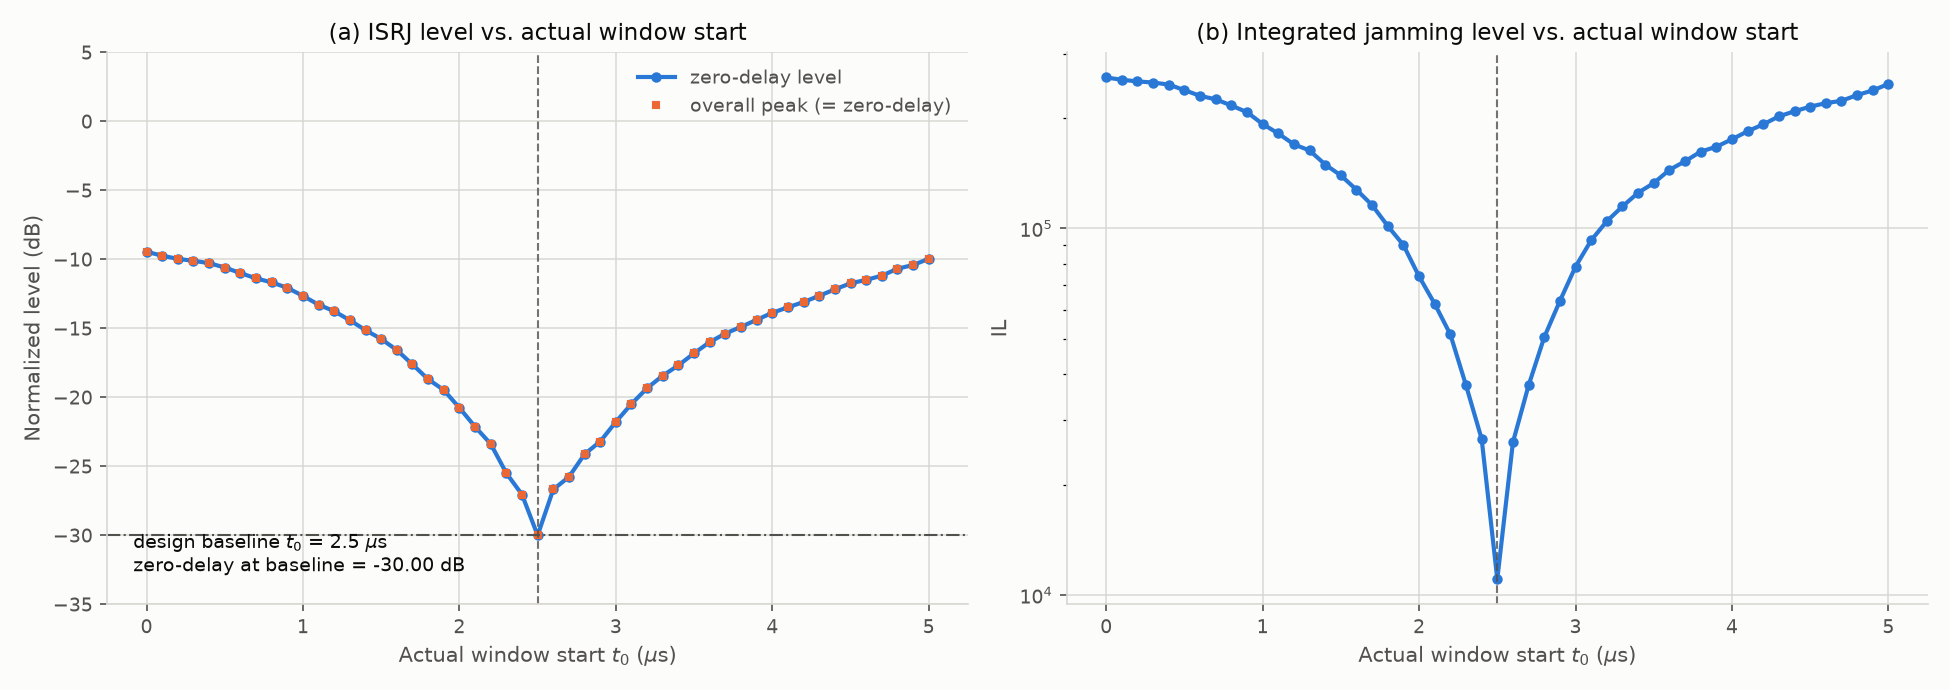
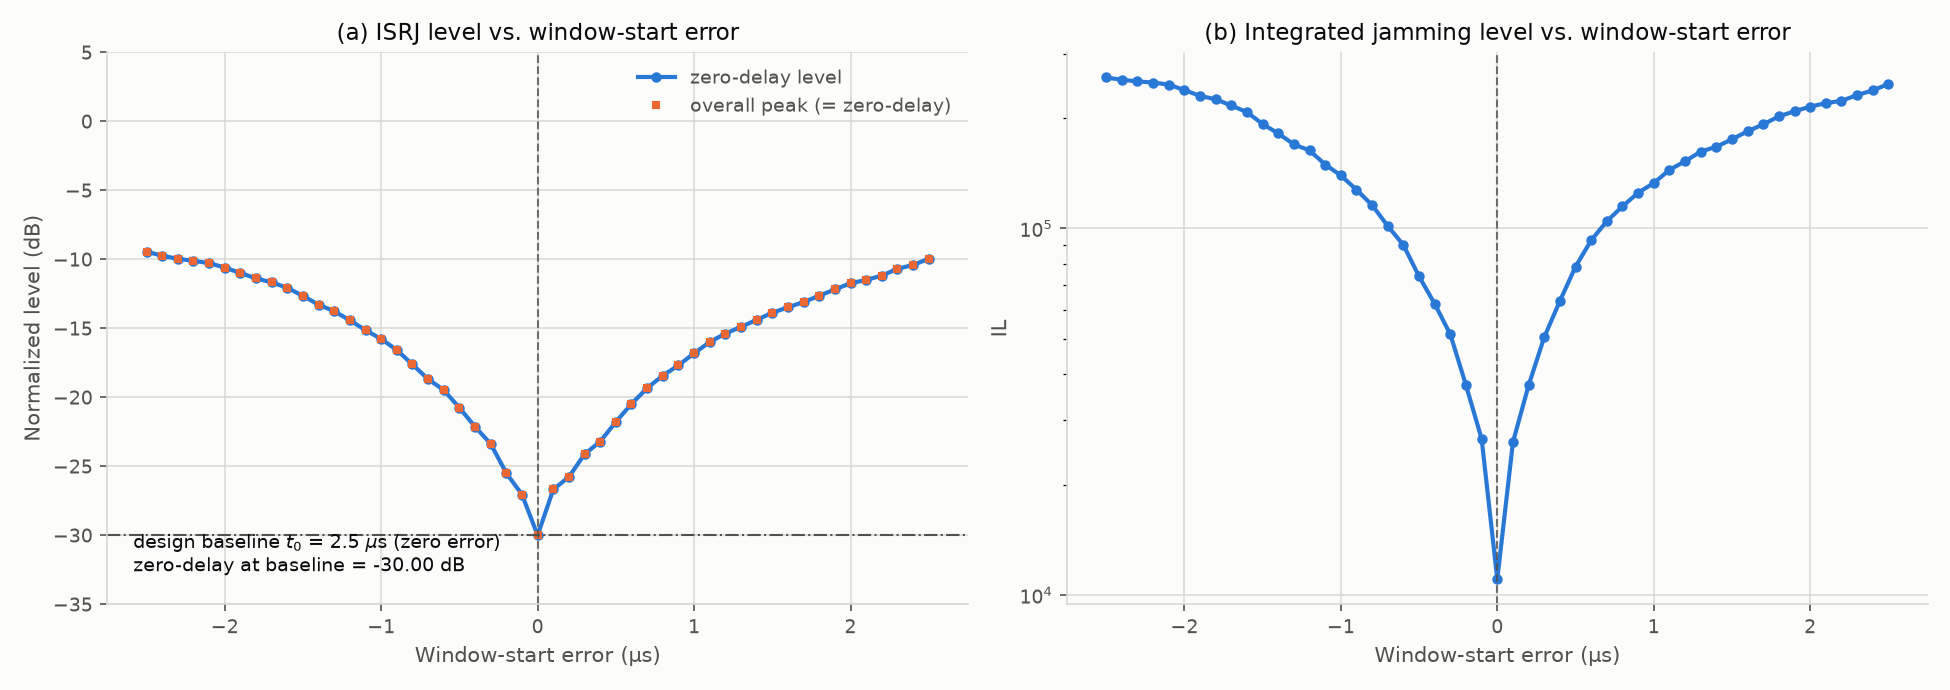
t_0 扫描图横坐标改为误差（±μs）：谷底居中于 0，与误差族图口径一致

diff --git a/参数搜索/scripts/run_t0_sweep.py b/参数搜索/scripts/run_t0_sweep.py
@@ -120,7 +120,7 @@ def _style(ax) -> None:
 
 
 def plot(rows: list, save_path: Path) -> None:
-    t0 = np.array([r["t0_us"] for r in rows])
+    err = np.array([r["t0_error_us"] for r in rows])      # 横坐标：t_0 误差 ±μs
     zero = np.array([r["zero_delay_db"] for r in rows])
     peak = np.array([r["peak_db"] for r in rows])
     il = np.array([r["il"] for r in rows])
@@ -128,33 +128,31 @@ def plot(rows: list, save_path: Path) -> None:
     fig, axes = plt.subplots(1, 2, figsize=(13, 4.6), facecolor=SURFACE)
 
     ax = axes[0]
-    ax.plot(t0, zero, color=SERIES_1, linewidth=2, marker="o", markersize=4,
+    ax.plot(err, zero, color=SERIES_1, linewidth=2, marker="o", markersize=4,
             label="zero-delay level")
     # 单份原位转发模型下整体峰值恒等于零延迟值（差异 ~1e-15），标记点单独画，
     # 避免两条曲线重叠导致下面那条不可见。
-    ax.plot(t0, peak, color=SERIES_2, linestyle="none", marker="s", markersize=3,
+    ax.plot(err, peak, color=SERIES_2, linestyle="none", marker="s", markersize=3,
             label="overall peak (= zero-delay)")
     ax.axhline(-30, color=TEXT_SECONDARY, linewidth=1.0, linestyle="-.")
-    ax.axvline(T0_DESIGN_US, color=TEXT_SECONDARY, linewidth=1.0,
-               linestyle="--", alpha=0.8)
+    ax.axvline(0.0, color=TEXT_SECONDARY, linewidth=1.0, linestyle="--", alpha=0.8)
     lo = max(-60, np.floor(np.min(zero) / 10) * 10 - 5)
     ax.set_ylim(lo, 5)
-    ax.annotate(f"design baseline $t_0$ = {T0_DESIGN_US:g} $\\mu$s\n"
-                f"zero-delay at baseline = {zero[np.argmin(np.abs(t0 - T0_DESIGN_US))]:.2f} dB",
+    ax.annotate(f"design baseline $t_0$ = {T0_DESIGN_US:g} $\\mu$s (zero error)\n"
+                f"zero-delay at baseline = {zero[np.argmin(np.abs(err))]:.2f} dB",
                 xy=(0.03, 0.06), xycoords="axes fraction",
                 fontsize=9, color=TEXT_PRIMARY)
-    ax.set_title("(a) ISRJ level vs. actual window start", fontsize=11)
-    ax.set_xlabel("Actual window start $t_0$ ($\\mu$s)")
+    ax.set_title("(a) ISRJ level vs. window-start error", fontsize=11)
+    ax.set_xlabel("Window-start error (μs)")
     ax.set_ylabel("Normalized level (dB)")
     ax.legend(frameon=False, fontsize=9, labelcolor=TEXT_SECONDARY)
     _style(ax)
 
     ax = axes[1]
-    ax.semilogy(t0, il, color=SERIES_1, linewidth=2, marker="o", markersize=4)
-    ax.axvline(T0_DESIGN_US, color=TEXT_SECONDARY, linewidth=1.0,
-               linestyle="--", alpha=0.8)
-    ax.set_title("(b) Integrated jamming level vs. actual window start", fontsize=11)
-    ax.set_xlabel("Actual window start $t_0$ ($\\mu$s)")
+    ax.semilogy(err, il, color=SERIES_1, linewidth=2, marker="o", markersize=4)
+    ax.axvline(0.0, color=TEXT_SECONDARY, linewidth=1.0, linestyle="--", alpha=0.8)
+    ax.set_title("(b) Integrated jamming level vs. window-start error", fontsize=11)
+    ax.set_xlabel("Window-start error (μs)")
     ax.set_ylabel("IL")
     _style(ax)
 
@@ -173,14 +171,14 @@ def write_table(rows: list, save_path: Path) -> None:
         f"截取长度 {TAU_US:g} μs、采样周期 {TS_US:g} μs、占空比 "
         f"{TAU_US / TS_US:.2f}。归一化分母 = $|h^H x|$ = b_max = N。",
         "",
-        "| 实际 t_0 (μs) | 误差 ε (μs) | 零延迟电平 (dB) | 整体峰值 (dB) | C | IL |",
+        "| 误差 (μs) | 实际 t_0 (μs) | 零延迟电平 (dB) | 整体峰值 (dB) | C | IL |",
         "|---|---|---|---|---|---|",
     ]
     for r in rows:
         if abs(r["t0_error_us"] * 2 - round(r["t0_error_us"] * 2)) > 1e-6:
             continue                     # 只保留 0.5 μs 的整数倍
         lines.append(
-            f"| {r['t0_us']:.2f} | {r['t0_error_us']:+.2f} | "
+            f"| {r['t0_error_us']:+.2f} | {r['t0_us']:.2f} | "
             f"{r['zero_delay_db']:.2f} | {r['peak_db']:.2f} | "
             f"{r['C']:.3f} | {r['il']:.3e} |")
     save_path.write_text("\n".join(lines) + "\n", encoding="utf-8")

diff --git a/参数搜索/结果/窗口起点/结果表.md b/参数搜索/结果/窗口起点/结果表.md
@@ -2,16 +2,16 @@
 
 设计：N=800、M=100、init=random_phase、seed=0；截取长度 2.5 μs、采样周期 10 μs、占空比 0.25。归一化分母 = $|h^H x|$ = b_max = N。
 
-| 实际 t_0 (μs) | 误差 ε (μs) | 零延迟电平 (dB) | 整体峰值 (dB) | C | IL |
+| 误差 (μs) | 实际 t_0 (μs) | 零延迟电平 (dB) | 整体峰值 (dB) | C | IL |
 |---|---|---|---|---|---|
-| 0.00 | -2.50 | -9.45 | -9.45 | 0.337 | 2.581e+05 |
-| 0.50 | -2.00 | -10.59 | -10.59 | 0.295 | 2.384e+05 |
-| 1.00 | -1.50 | -12.65 | -12.65 | 0.233 | 1.927e+05 |
-| 1.50 | -1.00 | -15.77 | -15.77 | 0.163 | 1.395e+05 |
-| 2.00 | -0.50 | -20.76 | -20.76 | 0.092 | 7.401e+04 |
-| 2.50 | +0.00 | -30.00 | -30.00 | 0.032 | 1.105e+04 |
-| 3.00 | +0.50 | -21.78 | -21.78 | 0.081 | 7.867e+04 |
-| 3.50 | +1.00 | -16.81 | -16.81 | 0.144 | 1.330e+05 |
-| 4.00 | +1.50 | -13.87 | -13.87 | 0.202 | 1.751e+05 |
-| 4.50 | +2.00 | -11.73 | -11.73 | 0.259 | 2.149e+05 |
-| 5.00 | +2.50 | -9.96 | -9.96 | 0.318 | 2.477e+05 |
+| -2.50 | 0.00 | -9.45 | -9.45 | 0.337 | 2.581e+05 |
+| -2.00 | 0.50 | -10.59 | -10.59 | 0.295 | 2.384e+05 |
+| -1.50 | 1.00 | -12.65 | -12.65 | 0.233 | 1.927e+05 |
+| -1.00 | 1.50 | -15.77 | -15.77 | 0.163 | 1.395e+05 |
+| -0.50 | 2.00 | -20.76 | -20.76 | 0.092 | 7.401e+04 |
+| +0.00 | 2.50 | -30.00 | -30.00 | 0.032 | 1.105e+04 |
+| +0.50 | 3.00 | -21.78 | -21.78 | 0.081 | 7.867e+04 |
+| +1.00 | 3.50 | -16.81 | -16.81 | 0.144 | 1.330e+05 |
+| +1.50 | 4.00 | -13.87 | -13.87 | 0.202 | 1.751e+05 |
+| +2.00 | 4.50 | -11.73 | -11.73 | 0.259 | 2.149e+05 |
+| +2.50 | 5.00 | -9.96 | -9.96 | 0.318 | 2.477e+05 |

diff --git a/参数搜索/README.md b/参数搜索/README.md
@@ -56,6 +56,8 @@
 - 结果：谷底精确落在 `t_0 = 2.5 μs`（−30.00 dB，C = 0.0316），两翼单调上升，
   近对称（ε = ±1 μs 处 −15.77 / −16.81 dB）；ε = ±2.5 μs 退化到 −9.45 / −9.96 dB
 - 产物：`结果/窗口起点/`（`归一化电平_t0.png`、`t0_sweep.json`、`结果表.md`）
+- 图：横轴 = **t_0 误差 ±2.5 μs**（谷底在 0 处，左右各 2.5 μs）；纵轴左 = 归一化电平（dB，
+  含 −30 dB 基准线），右 = 积分电平 IL
 
 ## 运行
 
